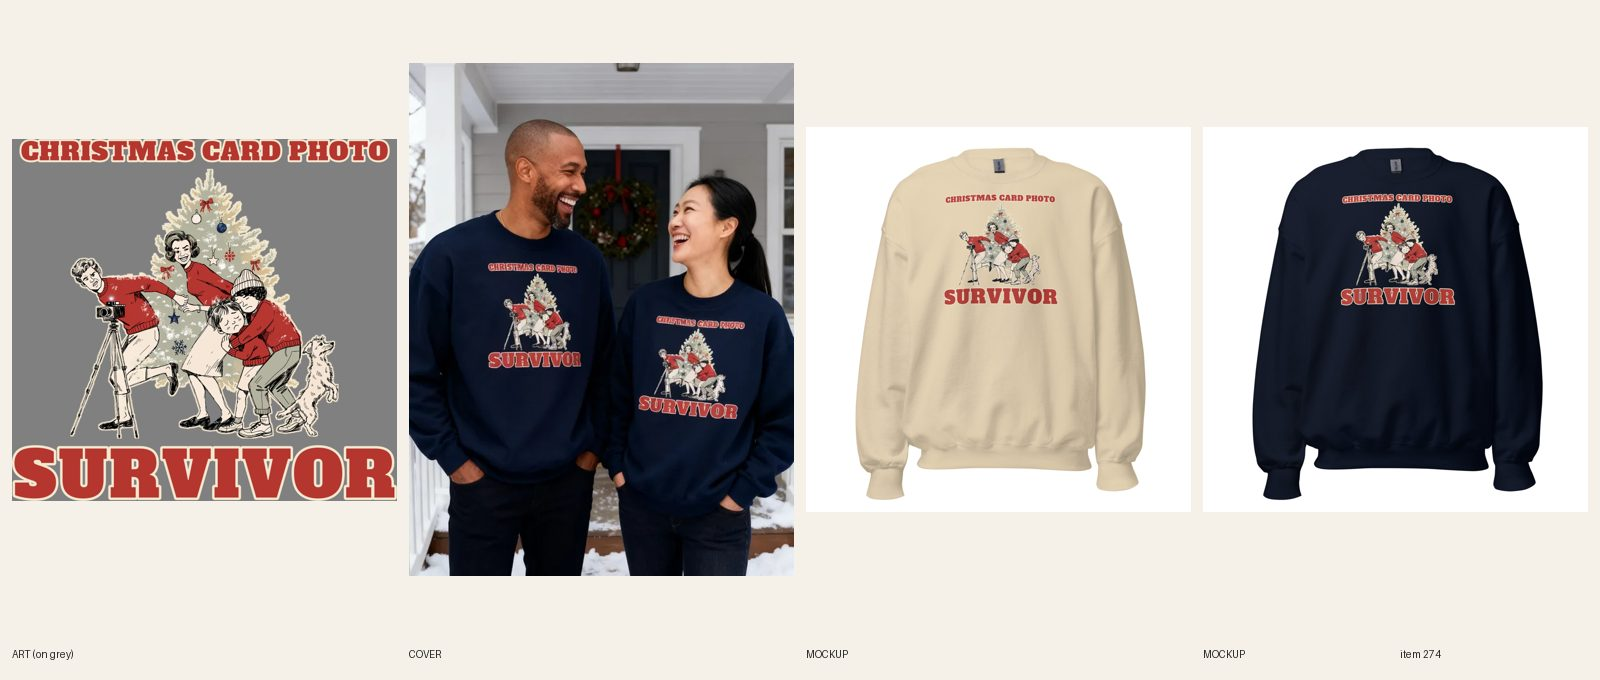
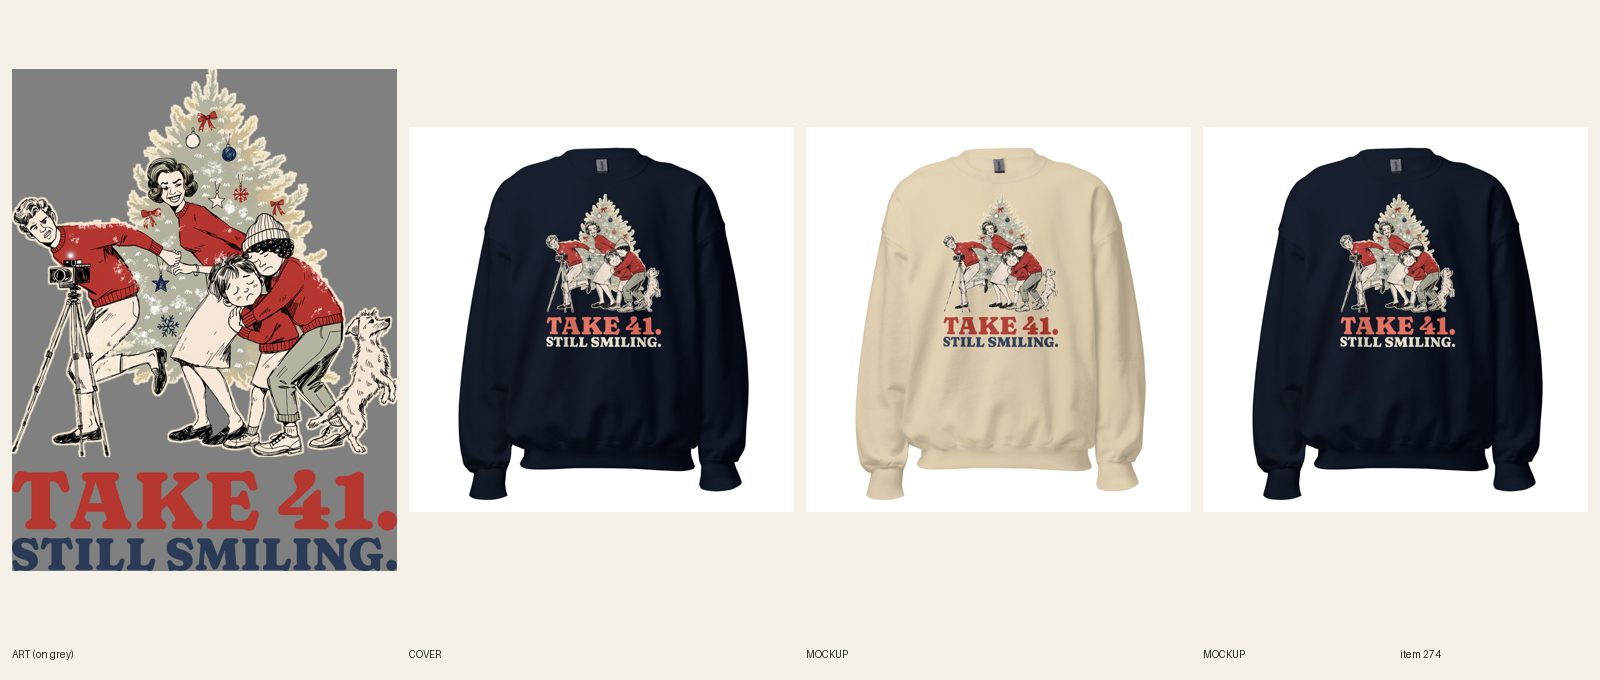
[A] review 274 Card Photo Survivor crewneck (approved print port)
Claude-Session: https://claude.ai/code/session_01PUkTXxpkgD7izsn25YU8Ks

Changed region(s): [[0.0, 0.0926, 0.5, 0.8647], [0.8125, 0.2779, 0.9062, 0.525], [0.5938, 0.2779, 0.6562, 0.525]]

diff --git a/designs/a274/build.py b/designs/a274/build.py
@@ -1,0 +1,25 @@
+#!/usr/bin/env python3
+"""#274 crewneck light-ink file for Navy: #273's approved TAKE 41. / STILL SMILING. print with the lockup recolored
+(TAKE 41. warm red #f0705f, STILL SMILING. cream #f5ecd7); art above the lockup is copied untouched. usage: build.py <273-take-41.png> <out.png>"""
+import sys
+from pathlib import Path
+from PIL import Image, ImageDraw, ImageFont
+ROOT = Path(__file__).resolve().parents[2]; F = ROOT / 'designs' / 'fonts'
+src, out = sys.argv[1:3]
+W = 3400; ART_H = 3426
+a = Image.open(src).convert('RGBA')
+art = a.crop((0, 0, W, ART_H))
+def line(text, fill, width, size=900):
+    f = ImageFont.truetype(str(F / 'Fraunces[SOFT,WONK,opsz,wght].ttf'), size)
+    f.set_variation_by_axes([24, 900, 100, 0])
+    bb = f.getbbox(text)
+    img = Image.new('RGBA', (bb[2] + 40, bb[3] + 40), (0, 0, 0, 0))
+    ImageDraw.Draw(img).text((10, 10), text, font=f, fill=fill)
+    img = img.crop(img.getbbox())
+    return img.resize((width, int(img.height * width / img.width)), Image.LANCZOS)
+h = line('TAKE 41.', '#f0705f', W); s = line('STILL SMILING.', '#f5ecd7', W)
+g1, g2 = 110, 60
+c = Image.new('RGBA', (W, art.height + g1 + h.height + g2 + s.height), (0, 0, 0, 0))
+c.alpha_composite(art, (0, 0)); c.alpha_composite(h, (0, art.height + g1)); c.alpha_composite(s, (0, art.height + g1 + h.height + g2))
+c = c.crop(c.getbbox()); c.save(out, dpi=(300, 300))
+print(out, c.size)

diff --git a/docs/pipeline/274-christmas-card-photo-survivor-crewneck.md b/docs/pipeline/274-christmas-card-photo-survivor-crewneck.md
@@ -1,4 +1,4 @@
-status: BUILDING [A] 2026-10-19 16:34 UTC
+status: REVIEW
 lane: A
 type: twin
 id: 274
@@ -25,3 +25,4 @@ kd: 24
 - 2026-10-18 04:20 UTC director: LIVE. Navy and Sand both read; couple cover, both in the crewneck. Added christmas-sweatshirts-for-men (unisex, man + woman cover, R7.5). ACTIVE, published. Audit PASS.
 - 2026-10-18 17:22 UTC director: QUALITY RESET grade C (new line + type), REDO. The product stays ACTIVE (same handle, URL, title keyword). 1. Line (R3.12, quality-reset 'Lines'): "CHRISTMAS CARD PHOTO / SURVIVOR": Stock "___ survivor" template, smile not a laugh. Write 5 candidates, keep the one a stranger laughs at in 3 seconds without backstory; kill lines that only describe the picture; if none of the 5 is funny, PARK it. 2. Quality reset type bar (docs/backlog/quality-reset.md, 'The new bar'): headline at least 90% of the art width, heavy, colors pulled from the art; second line at least 45% of the headline's height, never a thin script on a dark or mid garment; use the lettering as a shape (arch, stacked lockup, words breaking into the art), not a plain bar above and a script line below; no font used on more than 1 in 6 of the last 30 designs. 3. Keep the art if it carries the new line, else one new illustration (R4/R5). New print means a new cover per R6.10, copy line one rewritten for the new joke (R8.3), and a fresh review sheet (R7.7). While quality-reset.md says PAUSED, only lane A builds, and only the samples step 2 names.
 - 2026-10-19 15:55 UTC director: SHORTCUT for this REDO: its source design #273 went LIVE today with the line TAKE 41. / STILL SMILING., approved by Sam (quality-reset sample). Do not write new lines: port the #273 print (Printful file 1089114360) to this blank. Set your own width for this garment (R5.3.8 twins: crewneck FW 1650, hoodie FW 1500+, top of print about 3 in below the collar), make a light-ink file only if a dark garment color is offered (R5.3.8), relink every variant and log the count (R7.7), new fronts per color, copy line one and FAQ updated to the new line, plain product shot cover (add the handle to src/data/retired-covers.json; no new cover, RESUME terms), fresh docs/review/<id>.jpg. fal $0. Take these before other REDOs: they are the fastest way to match Sam-approved designs across garments.
+- 2026-10-19 16:58 UTC builder [A]: REDO 274 ported Sam-approved #273 print TAKE 41. / STILL SMILING. (Printful file 1089114360) to the Gildan 18000 crewneck. FW 1650 TOP 75. Navy is offered and the red/navy lockup sinks into it, so light file: Navy on 1089663845 (docs/print-files/274-take-41-light-ink.png, TAKE 41. coral #f0705f, STILL SMILING. cream #f5ecd7, art untouched); White, Sand, Sport Grey on 1089114360, headline fill ink (red/navy). Relinked 24/24 verified (6+6+6 dark file, 6 Navy light file), back logo kept (R7.7). 4 new fronts replace the old in place (fileUpdate); Navy read at phone size. Copy: SEO, Story line one and paragraph, FAQ 1 updated to the new line and inks; no frame/badge wording. Plain product shot: handle added to retired-covers.json. audit --handle PASS 0 warn. fal $0. Sheet docs/review/274.jpg.

diff --git a/docs/intake-log.md b/docs/intake-log.md
@@ -1,4 +1,4 @@
-RUNNING lane A since 2026-10-19 16:34 UTC
+2026-10-19 17:00 UTC — [A] Builder run: redid #274 Card Photo Survivor crewneck (ported approved #273 TAKE 41. / STILL SMILING. print, FW 1650, Navy on a light-ink file, 24/24 relinked, 4 fronts replaced in place, plain product shot). REVIEW. fal $0. Lock released.
 RUNNING lane B since 2026-10-19 16:30 UTC
 RUNNING director since 2026-10-19 16:16 UTC
 2026-10-19 16:24 UTC — [E] Builder run: redid #490 Plans Canceled. Mood Improved. hoodie (type only: Bevan orange/cream lockup at about full art width, same cat art, FW 1500, 12/12 synced, Sand+Navy fronts replaced in place, plain product shot). REVIEW. fal $0.
